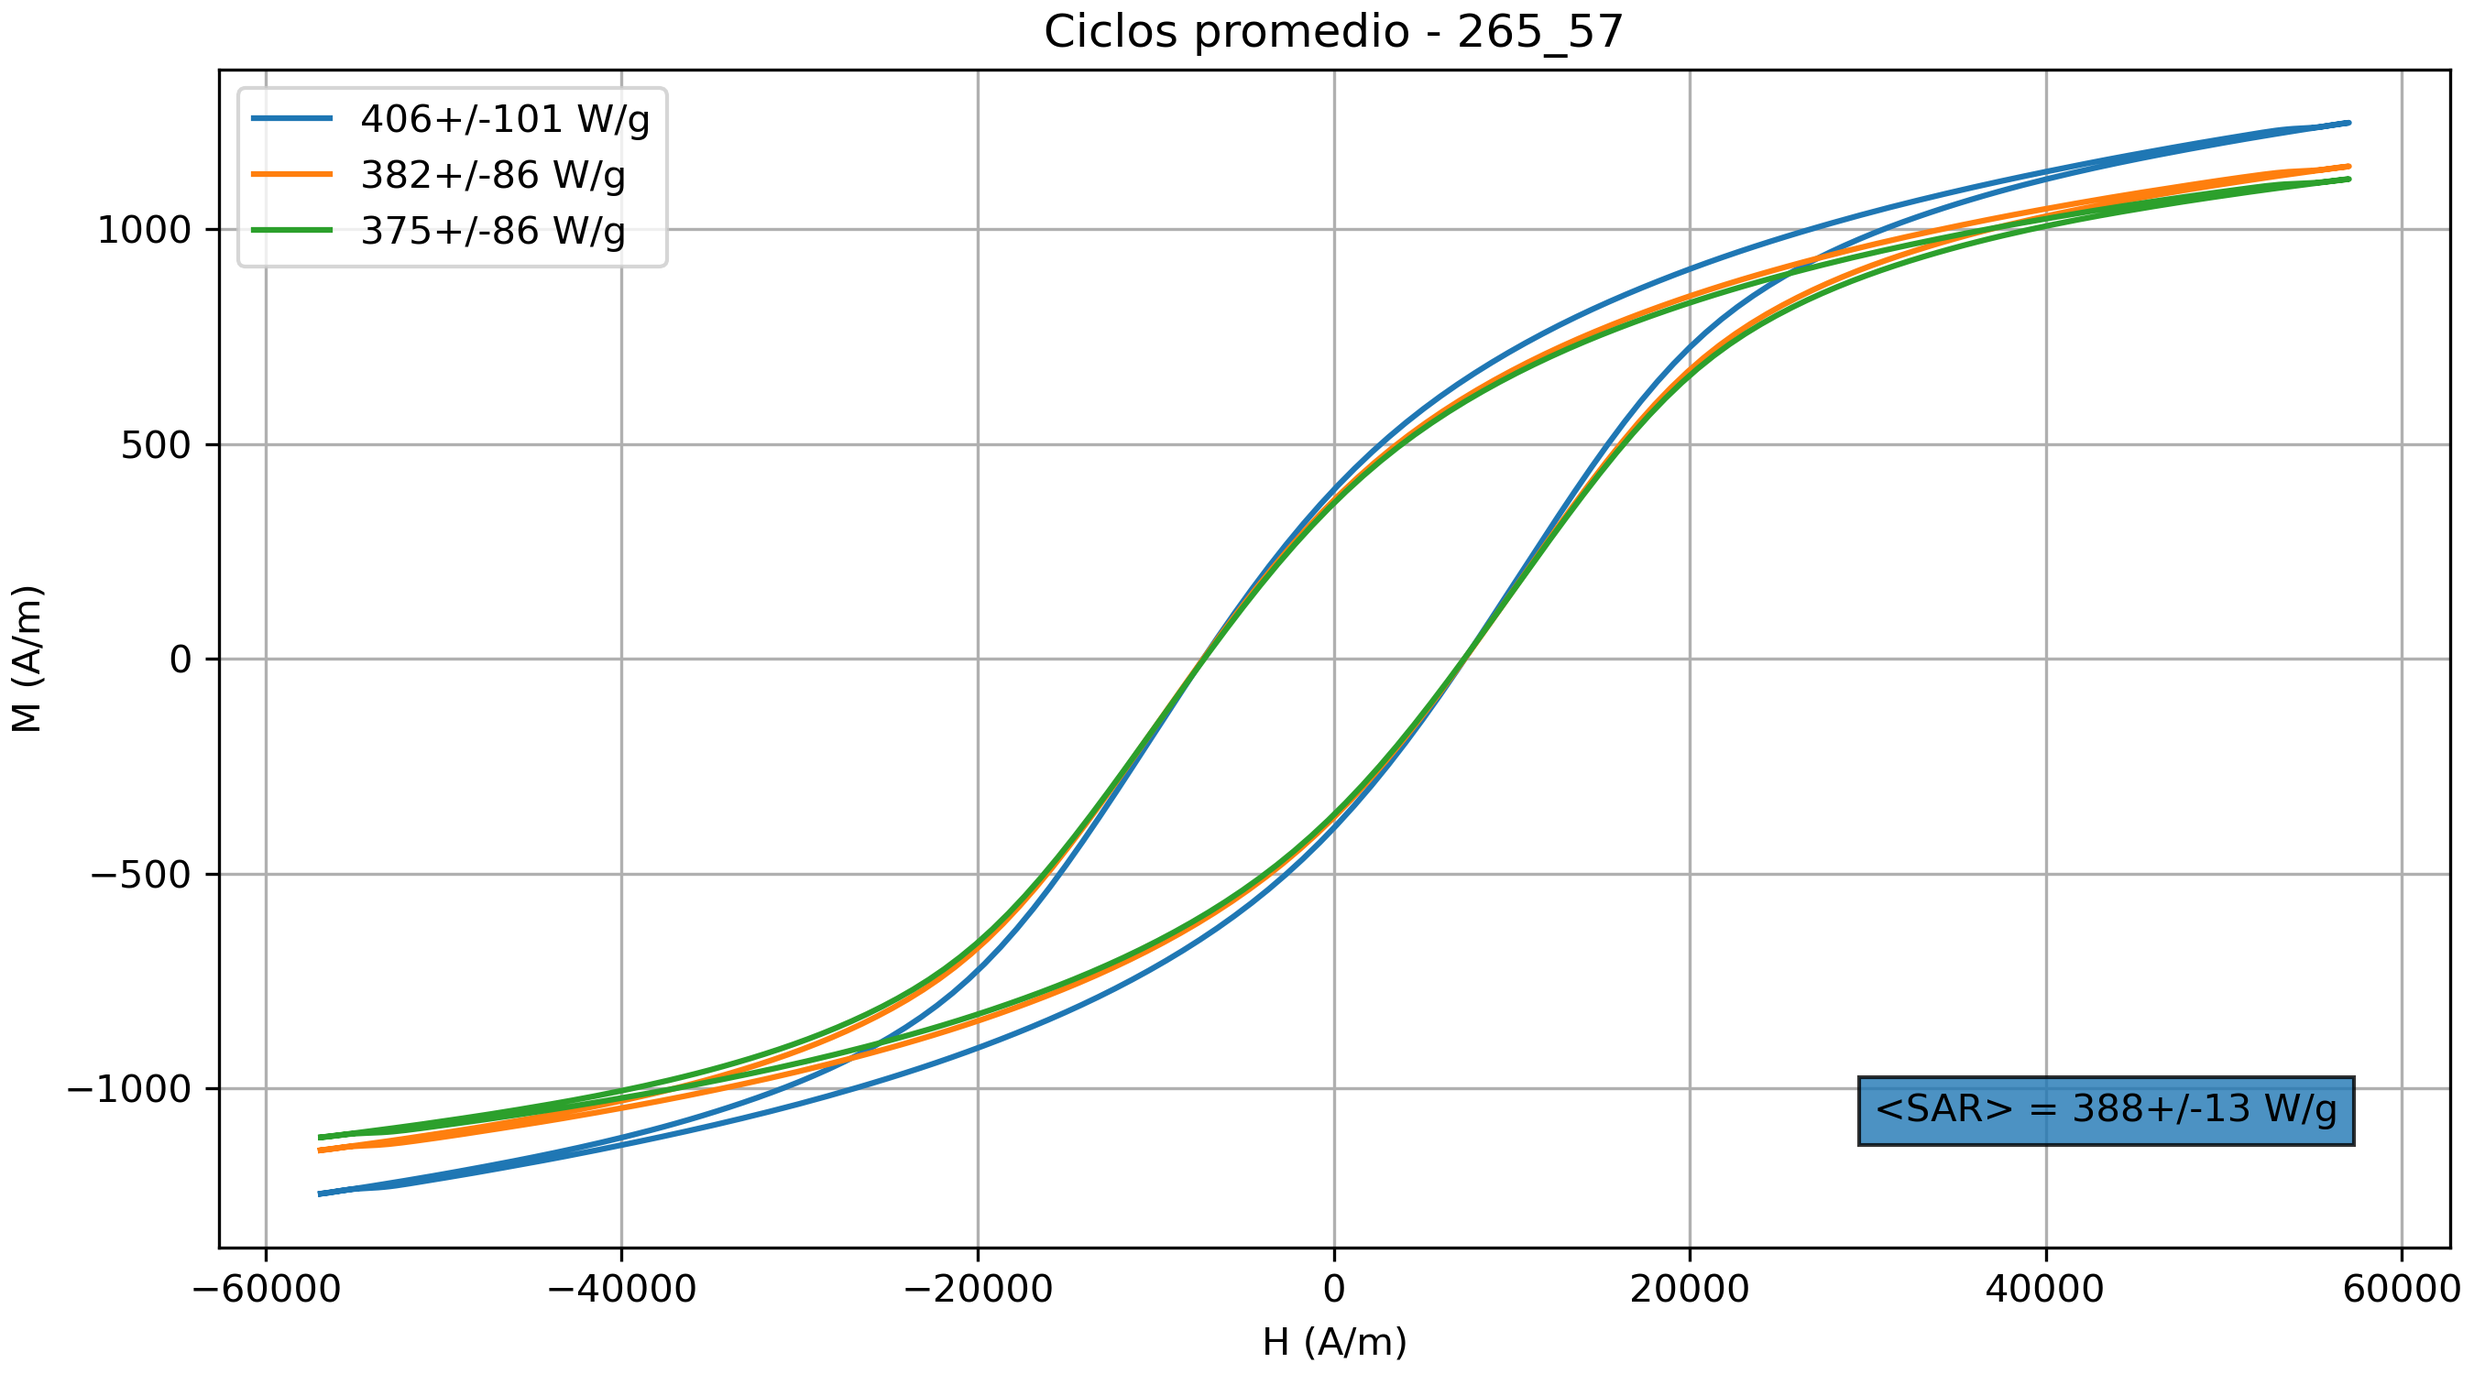
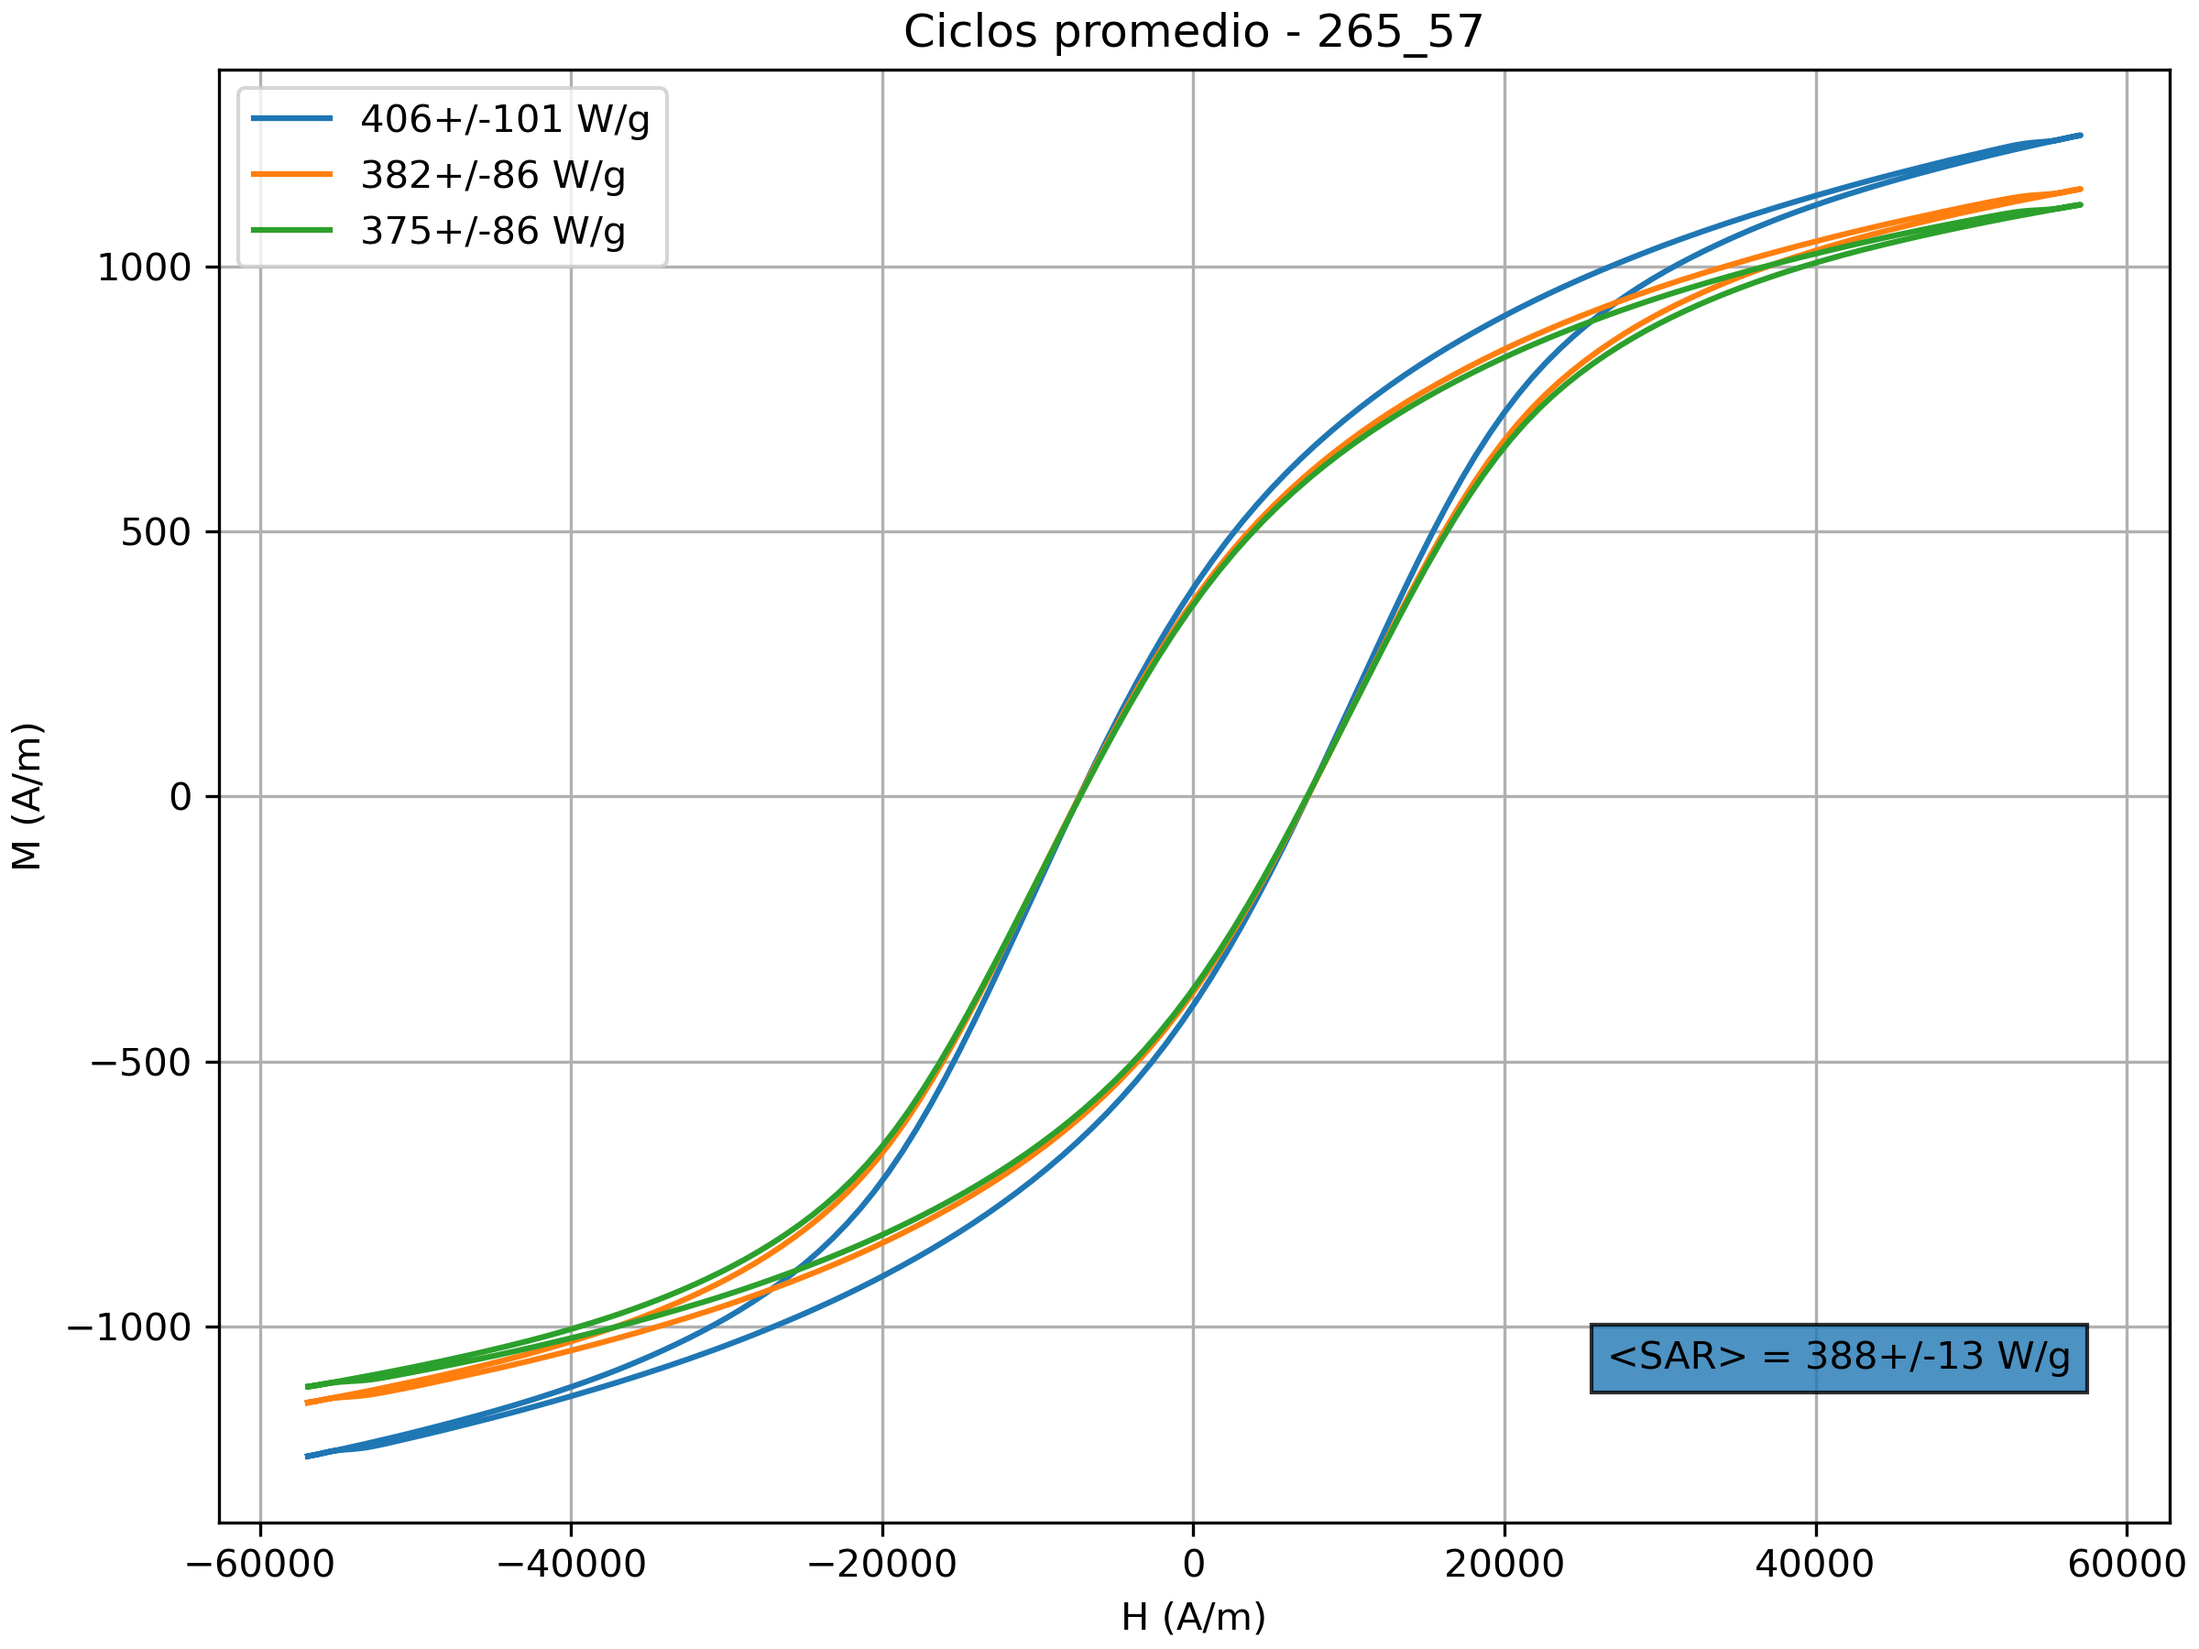
details

diff --git a/Tau.py b/Tau.py
@@ -426,7 +426,7 @@ print(f' tau = {tau3} ns')
 SAR3 = ufloat(np.mean([S.nominal_value for S in SARs_3]),np.std([S.nominal_value for S in SARs_3]))
 print(f' SAR = {SAR3:.2uf} W/g')
 
-fig,ax= plt.subplots(constrained_layout=True)
+fig,ax= plt.subplots(figsize=(9,5),constrained_layout=True)
 ax.plot(temperatura_3_1,tau_3_1,'.-',label='1')
 ax.plot(temperatura_3_2,tau_3_2,'.-',label='2')
 ax.plot(temperatura_3_3,tau_3_3,'.-',label='3')
@@ -445,7 +445,7 @@ filepaths_3 = [os.path.join(dir_3,f) for f in archivos_ciclos_3]
 for ac in archivos_ciclos_3:
     print(ac)
 
-fig2,ax2=plt.subplots(constrained_layout=True)
+fig2,ax2=plt.subplots(figsize=(8,6),constrained_layout=True)
 
 for i,fp in enumerate(filepaths_3):
     t,H,M,metadata=lector_ciclos(fp)
@@ -502,7 +502,7 @@ filepaths_4 = [os.path.join(dir_4,f) for f in archivos_ciclos_4]
 for ac in archivos_ciclos_4:
     print(ac)
 
-fig2,ax2=plt.subplots(figsize=(9,5),constrained_layout=True)
+fig2,ax2=plt.subplots(figsize=(8,6),constrained_layout=True)
 for i,fp in enumerate(filepaths_4):
     t,H,M,metadata=lector_ciclos(fp)
     ax2.plot(H,M,label=f'{SARs_4[i]:1f} W/g')
